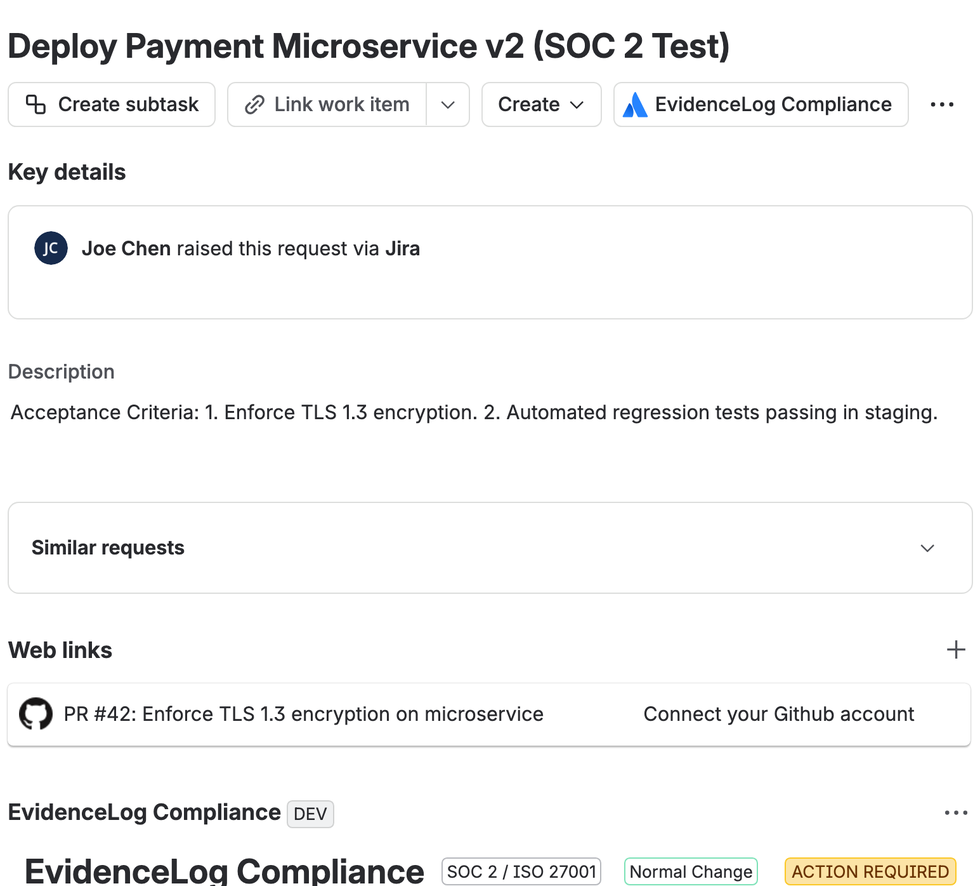
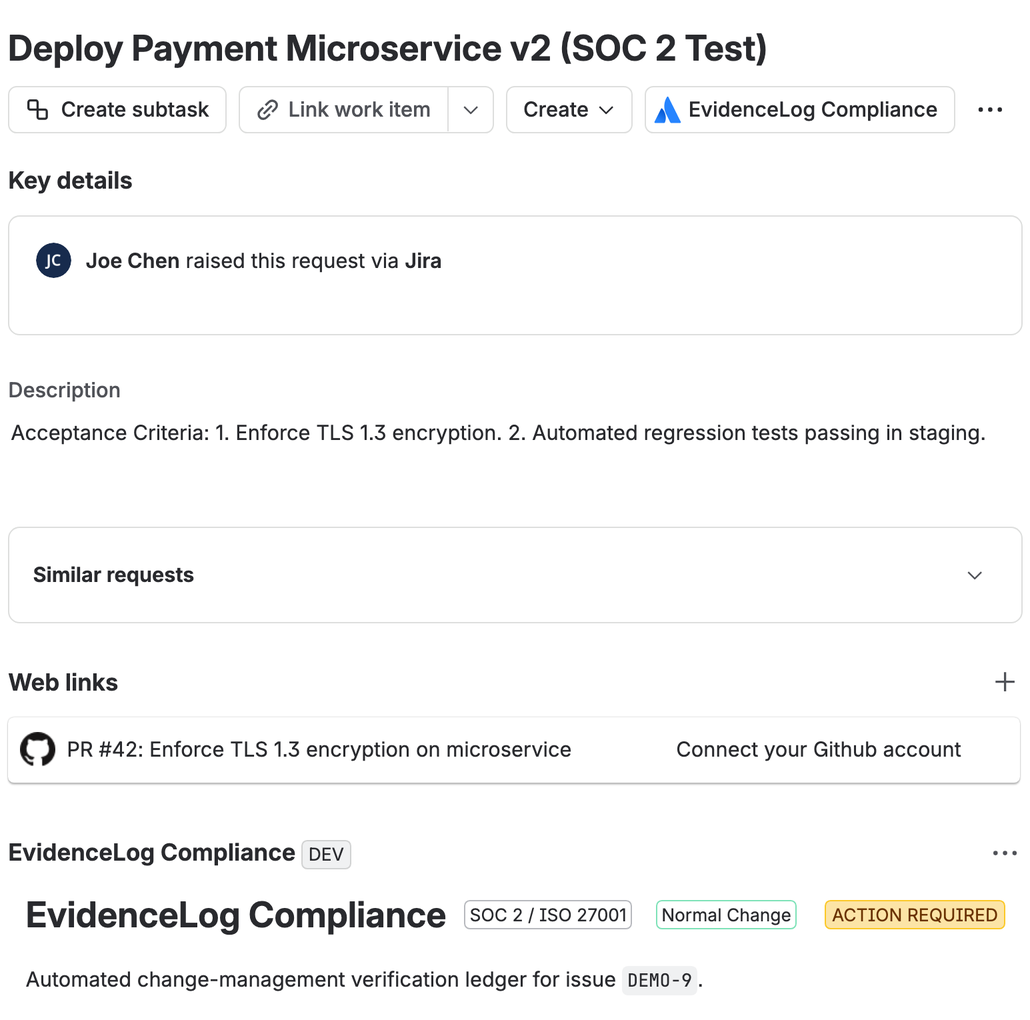
fix(assets): re-crop all Jira UI screenshots with generous padding to prevent text truncation

diff --git a/components/Hero.tsx b/components/Hero.tsx
@@ -91,8 +91,8 @@ export default function Hero({ onOpenAuditModal }: HeroProps) {
               <Image
                 src="/images/jira_demo9_ticket_full_tight.png"
                 alt="EvidenceLog for Jira - Real Live Product Interface on DEMO-9 with Certified Evidence Snapshot"
-                width={490}
-                height={443}
+                width={515}
+                height={510}
                 priority
                 className="w-full h-auto object-contain rounded-lg"
               />

diff --git a/components/HowItWorks.tsx b/components/HowItWorks.tsx
@@ -66,8 +66,8 @@ export default function HowItWorks({ onOpenAuditModal }: HowItWorksProps) {
             <Image
               src={currentStep.screenshot}
               alt={currentStep.caption}
-              width={490}
-              height={443}
+              width={515}
+              height={495}
               className="w-full h-auto object-contain cursor-pointer transition-transform duration-200 hover:scale-[1.01]"
               onClick={onOpenAuditModal}
             />
